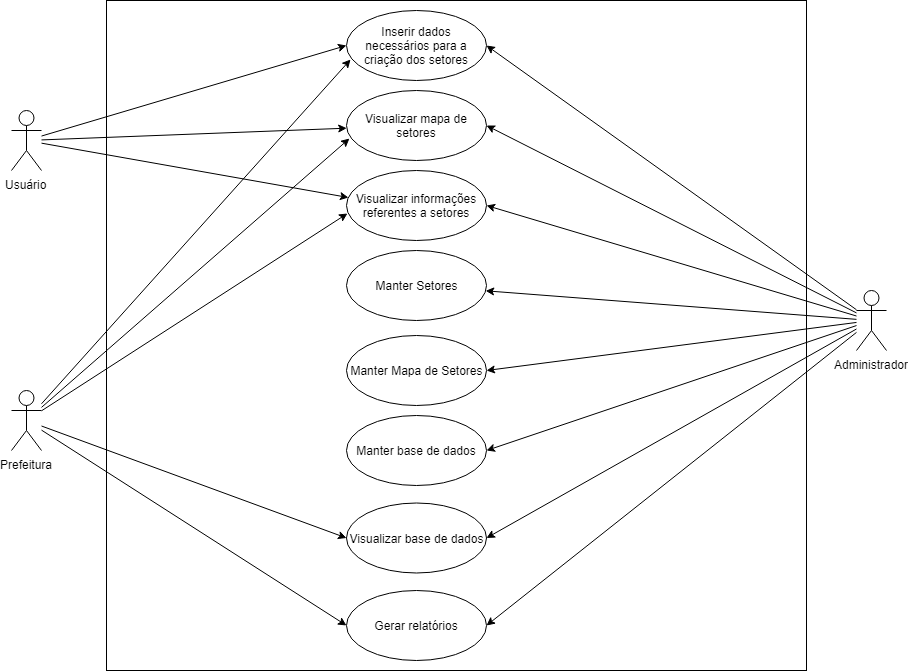
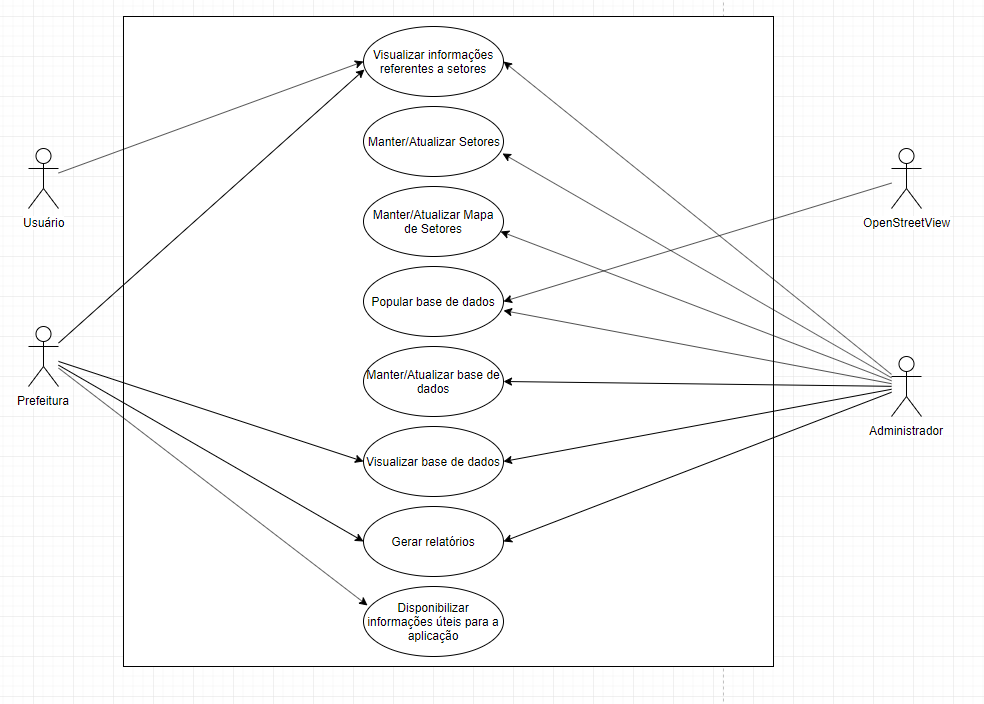
Correção no diagrama

diff --git a/user stories/contestar_pagamento_iptu.md b/user stories/contestar_pagamento_iptu.md
@@ -1,0 +1,7 @@
+## Como morador de Monte Carmelo desejo saber, como parâmetro, a média de IPTU cobrado em meu setor com o objetivo de verificar se estou pagando um valor justo.
+
+> Com a implementação do sistema os usuários finais terão mais embasamento para contestar o pagamento de uma guia de IPTU com valor que acreditam estar em desacordo.
+
+### Critérios de Aceitação: 
+- Possibilidade de consultar todos os endereços disponíveis.
+- Visualizar valor médio de IPTU cobrado em determinado setor.
